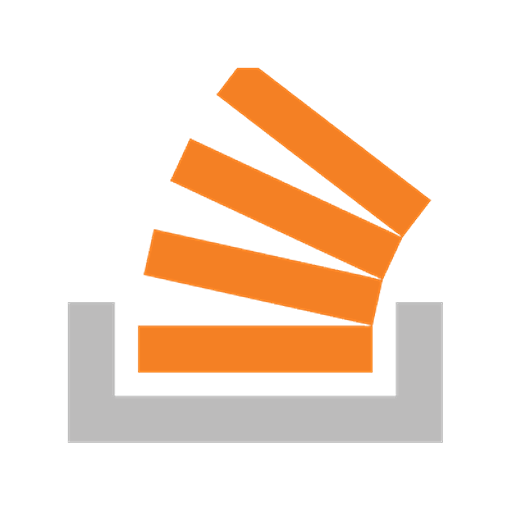
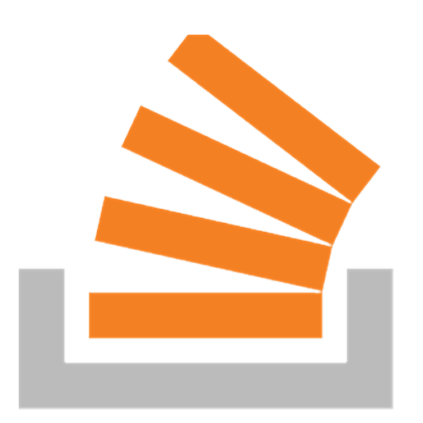
made it reponsive

diff --git a/index.html b/index.html
@@ -25,24 +25,24 @@
         <tr>
             <ol>
                 <td>
-                    <a target="_blank" href="http://www.google.com"><img src="google.png"></a>
+                    <a target="_blank" href="http://www.google.com"><img src="google.png"; style="width: 40%;""></a>
                     <li><a target="_blank" href="http://www.google.com">Open Google</a></li>
                 </td>
 
                 <td>
-                    <a target="_blank" href="https://www.youtube.com/"><img src="yt.png"></a>
+                    <a target="_blank" href="https://www.youtube.com/"><img src="yt1.png" style="width: 42%;"></a>
                     <li><a target="_blank" href="https://www.youtube.com/">Open Youtube</a></li>
                 </td>
 
                 <td>
                     <a target="_blank" href="https://www.chatgpt.com/"><img src="gpt.png"
-                            style="width: 60px; padding: 18px;"></a>
+                            style="width: 35%; padding: 0px;"></a>
                     <li><a target="_blank" href="https://www.chatgpt.com/">Open ChatGPT</a></li>
                 </td>
 
                 <td>
                     <a target="_blank" href="https://www.gmail.com/"><img src="gmail.png"
-                            style="width: 75px; padding: 18px;"></a>
+                            style="width: 40%; padding: 0px;"></a>
                     <li><a target="_blank" href="https://www.gmail.com/">Open Gmail</a></li>
                 </td>
             </ol>
@@ -58,24 +58,23 @@
         <ol>
             <tr>
                 <td>
-                    <a target="_blank" href="https://www.instagram.com/"><img src="insta.png"></a>
+                    <a target="_blank" href="https://www.instagram.com/"><img src="insta.png" style="width: 40%;"></a>
                     <li><a target="_blank" href="https://www.instagram.com/">Open Instagram</a></li>
                 </td>
 
                 <td>
                     <a target="_blank" href="https://www.facebook.com/"><img src="fb.png"
-                            style="width: 70px; padding: 15px;"></a>
+                            style="width: 40%;"></a>
                     <li><a target="_blank" href="https://www.facebook.com/">Open Facebook</a></li>
                 </td>
 
                 <td>
-                    <a target="_blank" href="https://web.whatsapp.com/"><img src="wp.png"><a>
+                    <a target="_blank" href="https://web.whatsapp.com/"><img src="wp.png" style="width: 40%;"><a>
                             <li><a target="_blank" href="https://web.whatsapp.com/">Open WhatsApp</a></li>
                 </td>
 
                 <td>
-                    <a target="_blank" href="https://web.telegram.org/"><img src="telegram.png"
-                            style="width: 90px;"></a>
+                    <a target="_blank" href="https://web.telegram.org/"><img src="telegram.png" style="width: 40%;"></a>
                     <li><a target="_blank" href="https://web.telegram.org/">Open Telegram</a></li>
                 </td>
 
@@ -94,22 +93,22 @@
             <ol>
                 <td>
                     <a target="_blank" href="https://www.monkeytype.com/"><img src="Monkeytype.png" ;
-                            style="padding: 15px;"></a>
+                            style="width: 50%;"></a>
                     <li><a target="_blank" href="https://www.monkeytype.com/">Open Monkeytype</a></li>
                 </td>
                 <td>
                     <a target="_blank" href="https://www.stackoverflow.com/"><img src="stack.png"
-                            style="width: 90;"></a>
+                            style="width: 50%;"></a>
                     <li><a target="_blank" href="https://www.stackoverflow.com/">Open Stackoverflow</a></li>
                 </td>
                 <td>
                     <a target="_blank" href="https://www.udemy.com/"><img src="udemy (2).png"
-                            style="width: 73px; padding: 14px;"></a>
+                            style="width: 40%;"></a>
                     <li><a target="_blank" href="https://www.udemy.com/">Open Udemy</a></li>
                 </td>
                 <td>
                     <a target="_blank" href="https://letsupgrade.in/"><img src="Screenshot (7).png"
-                            style="width: 90px; padding: 8px;"></a>
+                            style="width: 50%;"></a>
                     <li><a target="_blank" href="https://letsupgrade.in/">Open LetsUpgrade</a></li>
                 </td>
             </ol>
@@ -126,29 +125,29 @@
         <tr>
             <ol>
                 <td>
-                    <a target="_blank" href="https://byxatab.com/"><img src="xatab.png" style="width: 120px;"></a>
+                    <a target="_blank" href="https://byxatab.com/"><img src="xatab.png" style="width: 50%;"></a>
                     <li><a target="_blank" href="https://byxatab.com/">Open byxatab</a></li>
                 </td>
                 <td>
                     <a target="_blank" href="https://fitgirl-repacks.site/popular-repacks/"><img src="fitgirl.jpg"
-                            style="width: 75px; padding: 25px;"></a>
+                            style="width: 40%;"></a>
                     <li><a target="_blank" href="https://fitgirl-repacks.site/popular-repacks/">Open Fitgirl</a></li>
                 </td>
                 <td>
-                    <a target="_blank" href="https://steamunlocked.net/"><img src="steam).png"
-                            style="width: 180px; padding-bottom: 20px; padding-top: 20px;"></a>
+                    <a target="_blank" href="https://steamunlocked.net/"><img src="steamm.png"
+                            style="width: 40%;"></a>
                     <li><a target="_blank" href="https://steamunlocked.net/">Open Steamunlocked</a></li>
                 </td>
                 <td>
                     <a target="_blank" href="https://dodi-repacks.site/"><img src="dodi.png"
-                            style="width: 80px; padding-bottom: 20px; padding-top: 20px;"></a>
+                            style="width: 40%;"></a>
                     <li><a target="_blank" href="https://dodi-repacks.site/">Dodi Repacks</a></li>
                 </td>
             </ol>
         </tr>
     </table>
 
-    <table style="width: 983.2pxp;">
+    <table>
         <tr>
             <th colspan="2">
                 <h3>Temporary Bookmarks</h3>
@@ -157,7 +156,7 @@
         <tr>
             <ol>
                 <td rowspan="2" style="padding: 0px;">
-                    <iframe width="435" height="315"
+                    <iframe width="70%" height="40%"
                         src="https://www.youtube.com/embed/videoseries?si=7gK3DSoqOrIE9Ph6&amp;list=PLu0W_9lII9agq5TrH9XLIKQvv0iaF2X3w"
                         title="YouTube video player" frameborder="0"
                         allow="accelerometer; autoplay; clipboard-write; encrypted-media; gyroscope; picture-in-picture; web-share"
@@ -169,7 +168,7 @@
                 </td>
                 <td>
                     <a target="_blank" href="https://www.codewithharry.com/notes/"><img src="notes.png"
-                            style="padding: 30px; width: 80px;"></a>
+                            style="width: 15%;"></a>
                     <li><a target="_blank" href="https://www.codewithharry.com/notes/">Open Cheatsheet Harry</a></li>
                 </td>
             </ol>

diff --git a/book.css b/book.css
@@ -18,17 +18,38 @@ ol {
 
 
 h1 {
+    margin: 0;
+    padding: 0;
     width: 100vw;
+    height: 10vh;
+    display: flex;
+    justify-content: center;
+    align-items: center;
     font-family: "Arimo", serif;url(book.css)
     ;
     font-size: 40px;
-    border: 8px solid rgb(32, 230, 230);
+    /* border: 8px solid rgb(32, 230, 230); */
+    box-shadow: inset 0 0 0 8px rgb(32, 230, 230);    /*inline border*/
     text-transform: uppercase;
     color: rgb(16, 16, 138);
     background-color: aquamarine;
-    padding: 0px;
-    height: 70px;
-    margin: -8px;
+}
+
+h2{
+    margin: 0;
+    padding: 0;
+    width: 100vw;
+    font-family: "Bebas Neue", serif;
+  font-weight: 400;
+  font-style: normal;
+  font-size: 30px;
+  color:rgb(18, 250, 250);
+  background-color: #1818ffa8;
+  opacity: 0.5;
+  padding: 0px;
+  /* margin-top: 8px; */
+  /* margin-left: -8px;
+  margin-right: -8px; */
 }
 
 h3 {
@@ -41,9 +62,9 @@ h3 {
 
 table {
     border-collapse: collapse;
-    width: 100%;
+    width: 70%;
     margin: auto;
-    width: 983.2px;
+    /* width: 983.2px; */
     table-layout:fixed;
     overflow: hidden;
     word-wrap: break-word;
@@ -52,27 +73,32 @@ table {
 th {
     text-align: center;
     padding: 0px;
+    border: 4px solid red;
 
 }
 
 td{
     border: 4px solid red;
+    height: 40vh;
     font-family: "Dosis", serif;
-  font-optical-sizing: auto;
-  font-weight:bold;
-  font-style: normal;
+    font-optical-sizing: auto;
+    font-weight:bold;
+    font-style: normal;
     text-align: center;
     justify-content: center;
     align-items: center;
-    padding: 60px;
+    /* padding: 0px; */
 }
 
-th{
-    border: 4px solid red;
+@media (max-width: 600px){
+    td{
+        height: 20vh;
+    }
 }
 
 img{
-    width: 100px;
+    max-width: 100%;
+    height: auto;
     transition: transform 10.5 ease-in-out;
 }
 
@@ -87,18 +113,3 @@ a:hover{
     color: orange;
 }
 
-
-h2{
-    width: 100vw;
-    font-family: "Bebas Neue", serif;
-  font-weight: 400;
-  font-style: normal;
-  font-size: 30px;
-  color:rgb(18, 250, 250);
-  background-color: #1818ffa8;
-  opacity: 0.5;
-  padding: 0px;
-  margin-top: 8px;
-  /* margin-left: -8px;
-  margin-right: -8px; */
-}
